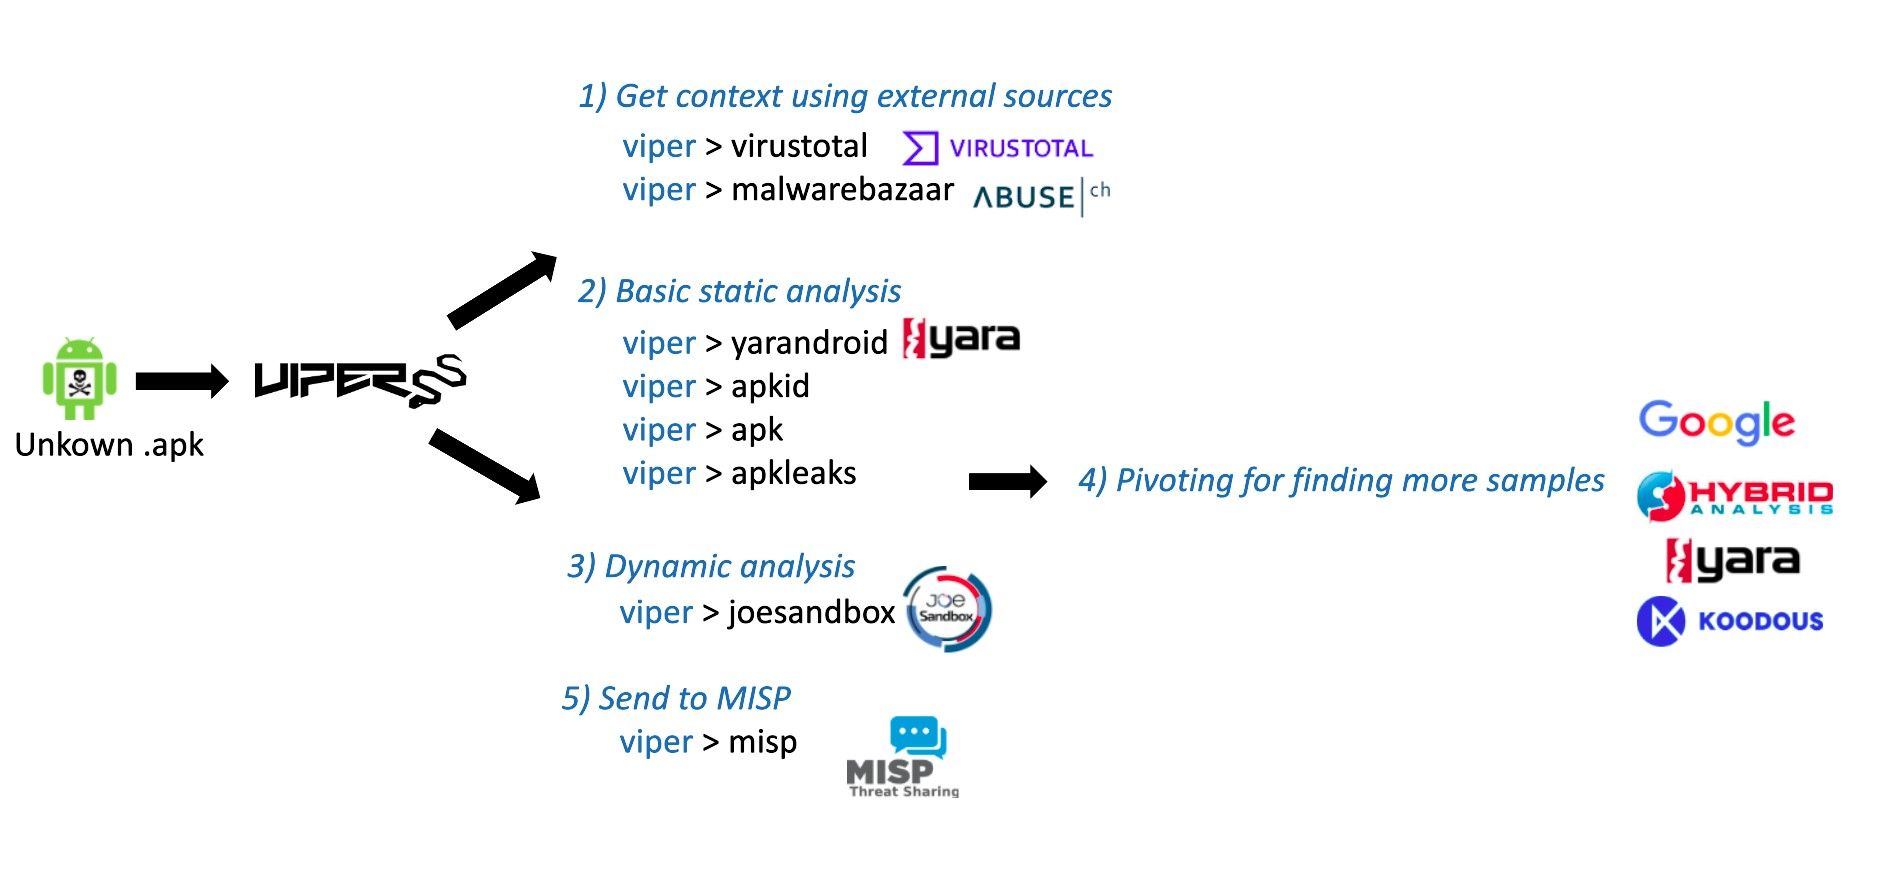
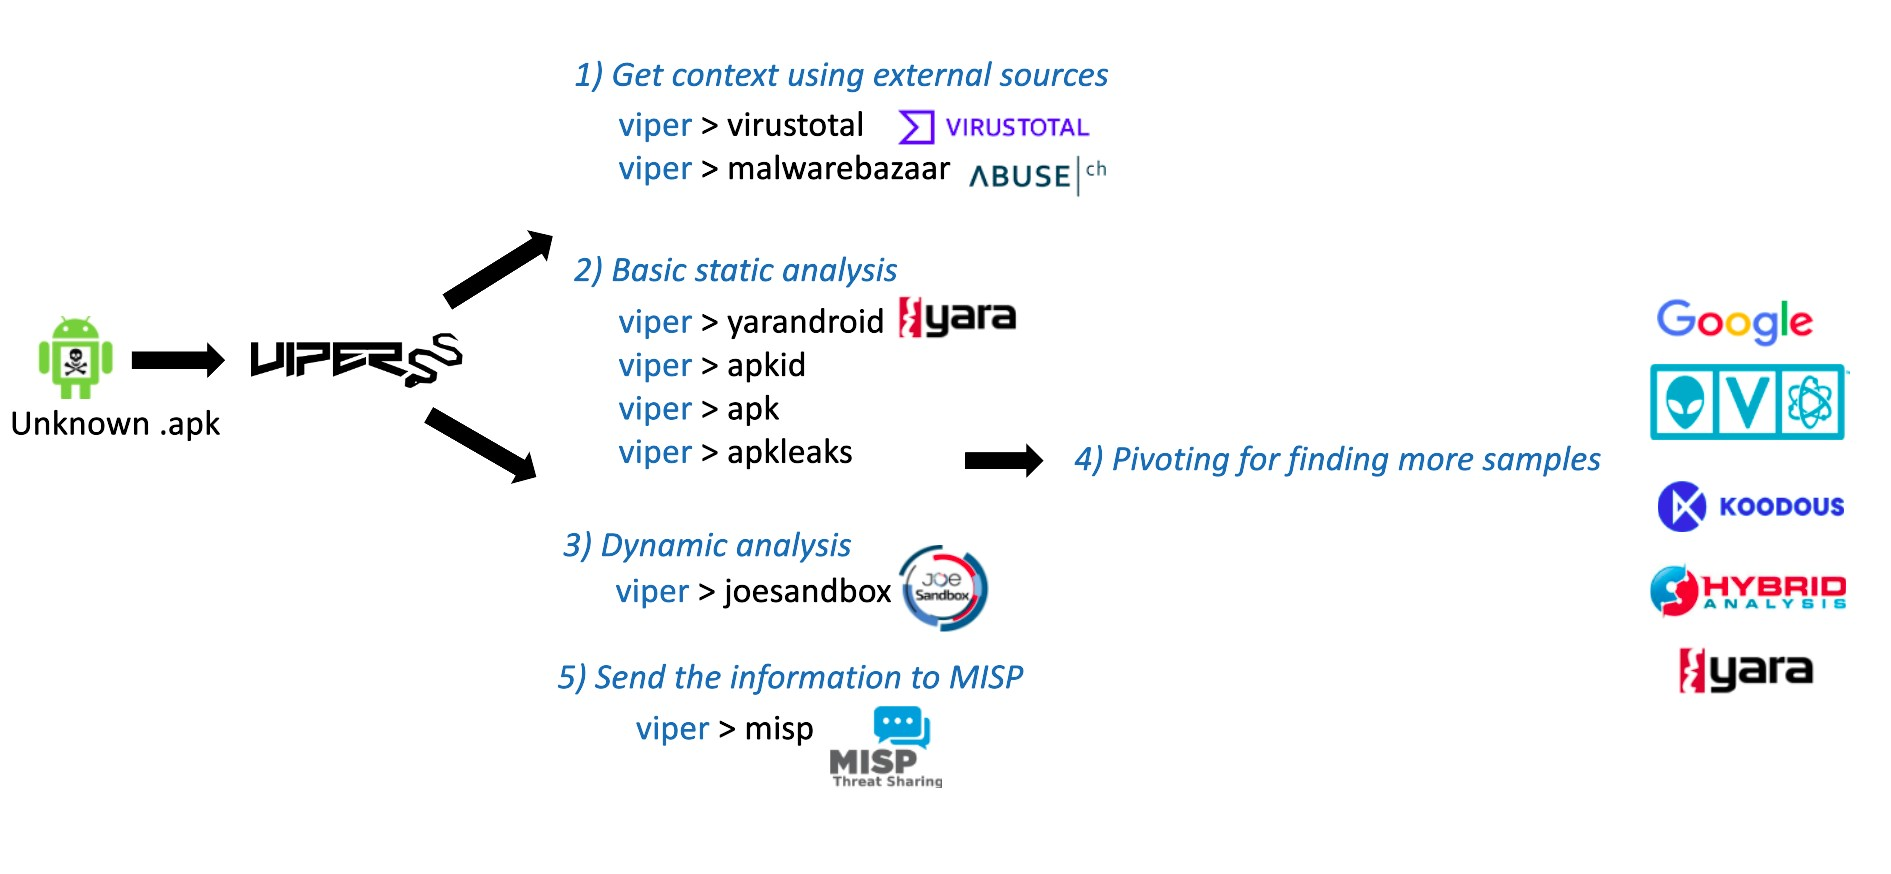
README.md updated and minor changes

diff --git a/malwarebazaar.py b/malwarebazaar.py
@@ -71,9 +71,14 @@ class MalwareBazaar(Module):
             self.log("info", "Threat Intel provider results:")
             for v in vendors:
                 self.log('info', '\t' + v)
-                atts = list(threat_intel_results[v].keys())
-                for a in atts:
-                    self.log('info', '\t\t' + str(a) + ": " + str(threat_intel_results[v][a]))
+                if 'Spamhaus_HBL' in v:
+                    for res in threat_intel_results[v]:
+                        for r in res.keys():
+                            self.log('info', '\t\t' + str(r) + ": " + str(res[r]))
+                else:
+                    atts = list(threat_intel_results[v].keys())
+                    for a in atts:
+                        self.log('info', '\t\t' + str(a) + ": " + str(threat_intel_results[v][a]))
 
     def run(self):
         self.log('info', "Searching for md5 hash on MalwareBazaar...")

diff --git a/README.md b/README.md
@@ -1,15 +1,201 @@
 # Viper plugins for triaging Security and Privacy threats on Android applications.
 
 ## Introduction
-This repository contains [Viper](https://github.com/viper-framework) modules 
+[Viper](https://github.com/viper-framework) is a binary
+analysis and management framework developed by [Claudio Guarnieri](https://twitter.com/botherder) aka Nex. 
+The aim of Viper is to provide an easy solution for organising malware and exploit samples.
+Viper also makes easy to integrate your collection of scripts via Viper modules. 
+
+This repository contains viper modules for helping threat intelligence analysts 
+to triage android applications and to complement other viper modules that can be
+used for .apk files such as apk, virustotal or joe among others.
+
 
 ## Modules
+This repository contains the following viper modules:
+
+* **apkid**: This module runs APKiD for finding more information about how an APK was made.
+ Similar to [PEiD](https://www.aldeid.com/wiki/PEiD) but for Android
+* **apkleaks**: This module run [apkleaks](https://github.com/dwisiswant0/apkleaks) for finding potential interesting 
+strings.
+* **malwarebazaar**: This module makes a request with the md5 of the apk to [MalwareBazaar](https://bazaar.abuse.ch/) 
+API.
+* **yarandroid**: This module decompresses the apk using [apktool](https://ibotpeaches.github.io/Apktool/), and it runs 
+your collection of yara rules over the files decompressed.
 
 ## Workflow
 
-
-**How it works?**
+The following image shows the approach for triaging malicious android applications using viper.
 
 ![Workflow](./images/malware_triage_workflow.jpg)
 
-   
+Open the suspicious.apk
+
+```bash
+viper > open -f suspicious.apk
+```
+
+### 1. Context
+The first step is to check if there is any match on VirusTotal or MalwareBazaar.
+
+Let's check out VirusTotal results.
+
+```bash
+viper 605fb275c53ab8ca40763762289deb723a826b17326d8c4d6803925b6870c090.apk > virustotal
+```
+![step1](./images/step1a_workflow.jpg)
+
+
+
+![step1](./images/step1b_workflow.jpg)
+
+
+Checking out malwarebazaar results.
+
+```bash
+viper 605fb275c53ab8ca40763762289deb723a826b17326d8c4d6803925b6870c090.apk > malwarebazaar
+```
+
+
+![step1](./images/step1c_workflow.jpg)
+
+At this step, we already know that the Android application is malicious and MalwareBazaar
+has classified the malicious file as a Joker sample.
+
+
+### 2. Basic static analysis
+
+We go ahead performing some basic static analysis. We could run our yara rules to check
+if there is any match.
+
+```bash
+viper 605fb275c53ab8ca40763762289deb723a826b17326d8c4d6803925b6870c090.apk > yarandroid --rules /path/to/your_rules/index_rules.yar
+```
+
+![step2](./images/step2a_yara_workflow.jpg)
+
+Yara has several hits, including the libjiagu packer. This information could be useful in case
+of needing to unpack the sample.
+
+After running Yara, we will check how the APK as made. We will use apkid which is able to indentify many compilers, 
+packers and obfuscators.
+
+```bash
+viper 605fb275c53ab8ca40763762289deb723a826b17326d8c4d6803925b6870c090.apk > apkid
+```
+
+![step2](./images/step2b_apkid_workflow.jpg)
+
+Apkid confirms what we already know, the apk is suspicious. If an app has been compiled with dexlib(using smali) it 
+probably has been tampered. Besides it also has identified the packer.
+
+
+Developers have the source code of the app, therefore they shouldn't need
+to use smali for making changes in the app. Apkid can also be helpful in detecting the packer and looking for a way of 
+unpacking the malicious code.
+
+Now we will check basic info about the app, such as the permissions used or the intents and receivers declared in the 
+manifest of the application.
+
+```bash
+viper 605fb275c53ab8ca40763762289deb723a826b17326d8c4d6803925b6870c090.apk > apk --all
+```
+
+![step2](./images/step2c_apk_info_workflow.jpg)
+
+
+We will also check information about the certificate used by the developer.
+
+```bash
+viper 605fb275c53ab8ca40763762289deb723a826b17326d8c4d6803925b6870c090.apk > apk --cert
+```
+
+The apk module can also grab the URLs that are hard-coded in the application, but in this case, it
+doesn't find anything, probably due to the application is packed.
+
+```bash
+viper 605fb275c53ab8ca40763762289deb723a826b17326d8c4d6803925b6870c090.apk > apk --url
+```
+
+![step2](./images/step2c_apk_cert_url_workflow.jpg)
+
+Finally, we will use apkleaks, which scans the apk in order to find URIs, secrets and endpoints.
+```bash
+viper 605fb275c53ab8ca40763762289deb723a826b17326d8c4d6803925b6870c090.apk > apkleaks
+```
+
+![step2](./images/step2_apkleaks_workflow.jpg)
+
+Before starting the dynamic analysis, we will check if the URLs and other interesting strings
+are relevant enough to be an IoC. They may be used for detection and also for hunting at step 4.
+
+### 3. Dynamic analysis
+
+In this step, we will analyse the behaviour of the apk using Joe Sandbox. Viper provides a
+plugin for interacting with the Joe Sandbox. The syntax is very straightforward.
+
+Using the --submit option the opened sample will be sent to Joe Sandbox for analysis.
+
+```bash
+viper 605fb275c53ab8ca40763762289deb723a826b17326d8c4d6803925b6870c090.apk > joe --submit
+```
+
+We can check the status of the analysis using the --task option.
+```bash
+viper 605fb275c53ab8ca40763762289deb723a826b17326d8c4d6803925b6870c090.apk > joe --tasks
+```
+![step2](./images/step3a_joe_workflow.jpg)
+
+Finally, once the analysis is complete, we will get the Joe Sandbox report using the
+--report option.
+
+```bash
+viper 605fb275c53ab8ca40763762289deb723a826b17326d8c4d6803925b6870c090.apk> joe --report
+```
+
+![step3](./images/step3b_joe_workflow.jpg)
+### 4. Pivoting for finding more samples.
+
+At this step, we know quite enough about this sample and the next step is to find more samples
+related to this campaign. To achieve this, we will:
+
+* Look for hashes and fuzzy hashes in Google and Threat Intelligence platforms such as OTX, etc.
+* Look for interesting strings (URLs, tokens, cert, API Keys, etc) in Google and platforms such as OTX ,VT 
+or Hybrid Analysis.
+* Create Yara rules with the relevant strings found and upload them to platforms such as Koodous,
+VT or Hybrid analysis.
+
+For instance, in step 2, we spotted a few interesting strings that could help to find more samples. 
+```bash
+viper 605fb275c53ab8ca40763762289deb723a826b17326d8c4d6803925b6870c090.apk > apkleaks
+```
+
+![step4](./images/step4a_workflow.jpg)
+
+After looking for the Google API-Key we found a Joe Sandbox report containing the same string.
+
+![step4](./images/step4b_workflow.jpg)
+
+The report shows that the sample of the report(5ddd08e8723cde7af7a958d81b75fb07) is also a joker
+sample and at the bottom part of the report, we can find more samples that are using the same 
+C&C that the sample that we are analysing. 
+![step4](./images/step4c_workflow.jpg)
+
+There are also more samples using the same [JA3 fingerprint](https://github.com/salesforce/ja3).
+
+
+![step4](./images/step4d_workflow.jpg)
+
+
+### 5. Send info to MISP
+
+```bash
+viper 605fb275c53ab8ca40763762289deb723a826b17326d8c4d6803925b6870c090.apk > misp create_event --info "flubot campaign"
+```
+```bash
+viper 605fb275c53ab8ca40763762289deb723a826b17326d8c4d6803925b6870c090.apk > misp add_hashes
+```
+
+Now we have the event created on MISP, and we can go ahead and add some attributes with the viper cli
+or just go to the MISP web, and add some attributes manually. We can also add the hashes of the samples discovered
+at step 4.
